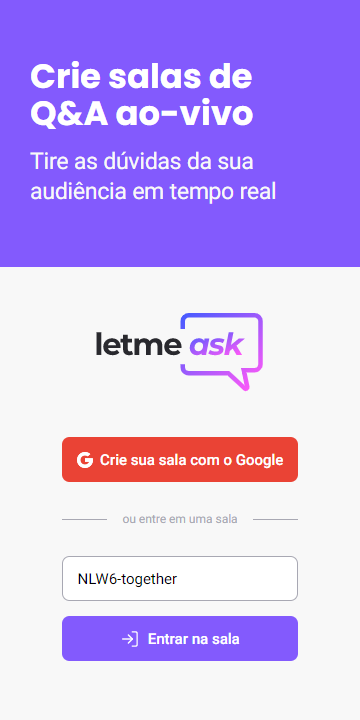
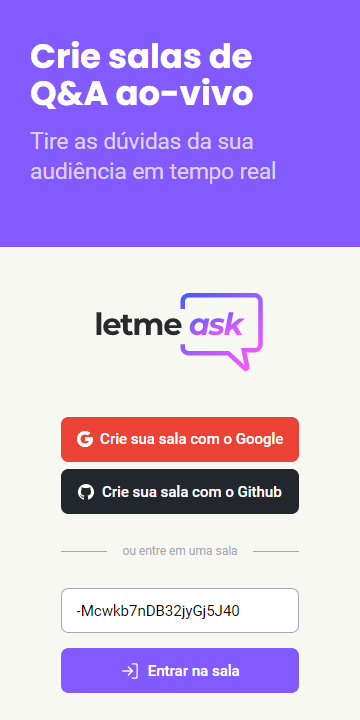
Updated README images

diff --git a/src/styles/global.scss b/src/styles/global.scss
@@ -43,10 +43,7 @@
 
     --pink: #ff59f8;
 
-    --overlay: rgba(#050206, 0.8);
-
-    --gray-github-primary   : #22272e;
-    --gray-github-secundary : #161b22;
+    --overlay: #050206cc;
 
     --gray-github-primary   : #22272e;
     --gray-github-secundary : #161b22;

diff --git a/.github/README-IMGS.md b/.github/README-IMGS.md
@@ -5,53 +5,48 @@
 
 ## Desktop Screenshot
 <div style="display: flex; flex-direction: 'column'; align-items: 'center';">
-<!-- Responsive, 1440 x 900, 50% (Laptop L - 1440px)-->
-    <img width="400px" src="./desktop/login-blank.png">
-    <img width="400px" src="./desktop/login-filled.png">
-    <img width="400px" src="./desktop/index-initial-countdown.png">
-    <img width="400px" src="./desktop/index-half-countdown.png">
-    <img width="400px" src="./desktop/index-final-countdown.png">
-    <img width="400px" src="./desktop/index-modal-with-confetti.png">
-    <img width="400px" src="./desktop/index-modal-without-confetti.png">
-    <img width="400px" src="./desktop/imgGenerator-image-next-level.png">
-    <img width="400px" src="./desktop/imgGenerator-twitter-next-level.png">
-    <img width="400px" src="./desktop/leaderbord.png">
-    <img width="400px" src="./desktop/configs.png">
-    <img width="400px" src="./desktop/toasts.png">
+<!-- Responsive, 1366 x 768, 50% (Laptop L - 1366px)-->
+    <img width="400px" src="desktop/home.png">
+    <img width="400px" src="desktop/home-enter-this-room.png">
+    <img width="400px" src="desktop/createRoom.png">
+    <img width="400px" src="desktop/admin-roomQA-with-questions.png">
+    <img width="400px" src="desktop/admin-roomQA-without-questions.png">
+    <img width="400px" src="desktop/user-roomQA-with-questions.png">
+    <img width="400px" src="desktop/user-roomQA-without-questions.png">
+    <img width="400px" src="desktop/modal-close-room.png">
+    <img width="400px" src="desktop/modal-delete-question.png">
+    <img width="400px" src="desktop/settings.png">
 </div>
 
 ## Mobile Screenshot
 <div style="display: flex; flex-direction: 'row';">
-<!-- Responsive, 425 x 900, 60% (Mobile L - 425px)-->
-    <img width="180px" src="./mobile/login-blank.png">
-    <img width="180px" src="./mobile/login-filled.png">
-    <img width="180px" src="./mobile/index-initial-countdown.png">
-    <img width="180px" src="./mobile/index-half-countdown.png">
-    <img width="180px" src="./mobile/index-final-countdown.png">
-    <img width="180px" src="./mobile/index-modal-with-confetti.png">
-    <img width="180px" src="./mobile/index-modal-without-confetti.png">
-    <img width="180px" src="./mobile/imgGenerator-image-next-level.png">
-    <img width="180px" src="./mobile/imgGenerator-twitter-next-level.png">
-    <img width="180px" src="./mobile/leaderbord.png">
-    <img width="180px" src="./mobile/configs.png">
-    <img width="180px" src="./mobile/toasts.png">
+<!-- Responsive, 320 x 720, 75% (Mobile L - 320px)-->
+    <img width="180px" src="mobile/home.png">
+    <img width="180px" src="mobile/home-enter-this-room.png">
+    <img width="180px" src="mobile/createRoom.png">
+    <img width="180px" src="mobile/admin-roomQA-with-questions.png">
+    <img width="180px" src="mobile/admin-roomQA-without-questions.png">
+    <img width="180px" src="mobile/user-roomQA-with-questions.png">
+    <img width="180px" src="mobile/user-roomQA-without-questions.png">
+    <img width="180px" src="mobile/modal-close-room.png">
+    <img width="180px" src="mobile/modal-delete-question.png">
+    <img width="180px" src="mobile/settings.png">
 </div>
 <!-- IMGS
-    ------------------------------
-    login-blank
-    login-filled
-    ------------------------------
-    initial-countdown
-    half-countdown
-    final-countdown
-    ------------------------------
-    modal-with-confetti
-    modal-without-confetti
-    ------------------------------
-    image-next-level
-    twitter-next-level
-    ------------------------------
-    leaderbord
-    configs
-    ------------------------------
+    ------------------------------------------
+    home
+    home-enter-this-room
+    ------------------------------------------
+    createRoom
+    ------------------------------------------
+    admin-roomQA-with-questions
+    admin-roomQA-without-questions
+    user-roomQA-with-questions
+    user-roomQA-without-questions
+    ------------------------------------------
+    modal-close-room
+    modal-delete-question
+    ------------------------------------------
+    settings
+    ------------------------------------------
 -->

diff --git a/README.md b/README.md
@@ -93,16 +93,15 @@ Esse projeto foi desenvolvido com as seguintes tecnologias:
 ## Layout 🚧
 ### Desktop Screenshot
 <div style="display: flex; flex-direction: 'column'; align-items: 'center';">
-<!-- Responsive, 1366 x 768, 50% (Laptop L - 1366px)-->
+<!-- Responsive, 1366 x 768, 50% (Laptop L - 1366px) Dark -->
     <!--<img width="400px" src="./.github/desktop/home.png">-->
-    <img width="400px" src="./.github/desktop/home-login.png">
     <img width="400px" src="./.github/desktop/home-enter-this-room.png">
-    <img width="400px" src="./.github/desktop/createRoom.png">
-    <!--<img width="400px" src="./.github/desktop/admin-roomQA-with-questions.png">-->
-    <!--<img width="400px" src="./.github/desktop/admin-roomQA-with-questions-being-answered.png">-->
-    <!--<img width="400px" src="./.github/desktop/admin-roomQA-with-questions-answered.png">-->
-    <!--<img width="400px" src="./.github/desktop/admin-roomQA-without-questions.png">-->
-    <!--<img width="400px" src="./.github/desktop/modal-close-room.png">-->
+    <!--<img width="400px" src="./.github/desktop/createRoom.png">-->
+    <img width="400px" src="./.github/desktop/admin-roomQA-with-questions.png">
+    <img width="400px" src="./.github/desktop/admin-roomQA-without-questions.png">
+    <!--<img width="400px" src="./.github/desktop/user-roomQA-with-questions.png">-->
+    <!--<img width="400px" src="./.github/desktop/user-roomQA-without-questions.png">-->
+    <img width="400px" src="./.github/desktop/modal-close-room.png">
     <!--<img width="400px" src="./.github/desktop/modal-delete-question.png">-->
     <!--<img width="400px" src="./.github/desktop/settings.png">-->
 </div>
@@ -110,31 +109,27 @@ Esse projeto foi desenvolvido com as seguintes tecnologias:
 
 ### Mobile Screenshot
 <div style="display: flex; flex-direction: 'row';">
-<!-- Responsive, 320 x 720, 75% (Mobile L - 320px)-->
+<!-- Responsive, 320 x 720, 75% (Mobile L - 320px) Light -->
     <img width="180px" src="./.github/mobile/home.png">
-    <!--<img width="180px" src="./.github/mobile/home-login.png">-->
-    <img width="180px" src="./.github/mobile/home-enter-this-room.png">
+    <!--<img width="180px" src="./.github/mobile/home-enter-this-room.png">-->
     <img width="180px" src="./.github/mobile/createRoom.png">
     <!--<img width="180px" src="./.github/mobile/admin-roomQA-with-questions.png">-->
-    <!--<img width="180px" src="./.github/mobile/admin-roomQA-with-questions-being-answered.png">-->
-    <!--<img width="180px" src="./.github/mobile/admin-roomQA-with-questions-answered.png">-->
-    <!--<img width="180px" src="./.github/mobile/admin-roomQA-without-questions.png">-->
+    <img width="180px" src="./.github/mobile/admin-roomQA-without-questions.png">
+    <img width="180px" src="./.github/mobile/user-roomQA-with-questions.png">
+    <!--<img width="180px" src="./.github/mobile/user-roomQA-without-questions.png">-->
     <!--<img width="180px" src="./.github/mobile/modal-close-room.png">-->
-    <!--<img width="180px" src="./.github/mobile/modal-delete-question.png">-->
+    <img width="180px" src="./.github/mobile/modal-delete-question.png">
     <!--<img width="180px" src="./.github/mobile/settings.png">-->
 </div>
 <a href="./.github/README-IMGS.md">Ver mais</a>
 <!-- IMGS
     ------------------------------------------
     home
-    home-login
     home-enter-this-room
     ------------------------------------------
     createRoom
     ------------------------------------------
     admin-roomQA-with-questions
-    admin-roomQA-with-questions-being-answered
-    admin-roomQA-with-questions-answered
     admin-roomQA-without-questions
     user-roomQA-with-questions
     user-roomQA-without-questions

diff --git a/.github/mobile/README-IMG-MOBILE.md b/.github/mobile/README-IMG-MOBILE.md
@@ -7,28 +7,24 @@
 <div style="display: flex; flex-direction: 'row';">
 <!-- Responsive, 320 x 720, 75% (Mobile L - 320px)-->
     <img width="180px" src="./home.png">
-    <img width="180px" src="./home-login.png">
     <img width="180px" src="./home-enter-this-room.png">
     <img width="180px" src="./createRoom.png">
     <img width="180px" src="./admin-roomQA-with-questions.png">
-    <img width="180px" src="./admin-roomQA-with-questions-being-answered.png">
-    <img width="180px" src="./admin-roomQA-with-questions-answered.png">
     <img width="180px" src="./admin-roomQA-without-questions.png">
+    <img width="180px" src="./user-roomQA-with-questions.png">
+    <img width="180px" src="./user-roomQA-without-questions.png">
     <img width="180px" src="./modal-close-room.png">
     <img width="180px" src="./modal-delete-question.png">
-    <img width="180px" src="./.github/mobile/settings.png">
+    <img width="180px" src="./settings.png">
 </div>
 <!-- IMGS
     ------------------------------------------
     home
-    home-login
     home-enter-this-room
     ------------------------------------------
     createRoom
     ------------------------------------------
     admin-roomQA-with-questions
-    admin-roomQA-with-questions-being-answered
-    admin-roomQA-with-questions-answered
     admin-roomQA-without-questions
     user-roomQA-with-questions
     user-roomQA-without-questions

diff --git a/.github/desktop/README-IMG-DESKTOP.md b/.github/desktop/README-IMG-DESKTOP.md
@@ -7,13 +7,12 @@
 <div style="display: flex; flex-direction: 'column'; align-items: 'center';">
 <!-- Responsive, 1366 x 768, 50% (Laptop L - 1366px)-->
     <img width="400px" src="./home.png">
-    <img width="400px" src="./home-login.png">
     <img width="400px" src="./home-enter-this-room.png">
     <img width="400px" src="./createRoom.png">
     <img width="400px" src="./admin-roomQA-with-questions.png">
-    <img width="400px" src="./admin-roomQA-with-questions-being-answered.png">
-    <img width="400px" src="./admin-roomQA-with-questions-answered.png">
     <img width="400px" src="./admin-roomQA-without-questions.png">
+    <img width="400px" src="./user-roomQA-with-questions.png">
+    <img width="400px" src="./user-roomQA-without-questions.png">
     <img width="400px" src="./modal-close-room.png">
     <img width="400px" src="./modal-delete-question.png">
     <img width="400px" src="./settings.png">
@@ -21,14 +20,11 @@
 <!-- IMGS
     ------------------------------------------
     home
-    home-login
     home-enter-this-room
     ------------------------------------------
     createRoom
     ------------------------------------------
     admin-roomQA-with-questions
-    admin-roomQA-with-questions-being-answered
-    admin-roomQA-with-questions-answered
     admin-roomQA-without-questions
     user-roomQA-with-questions
     user-roomQA-without-questions
